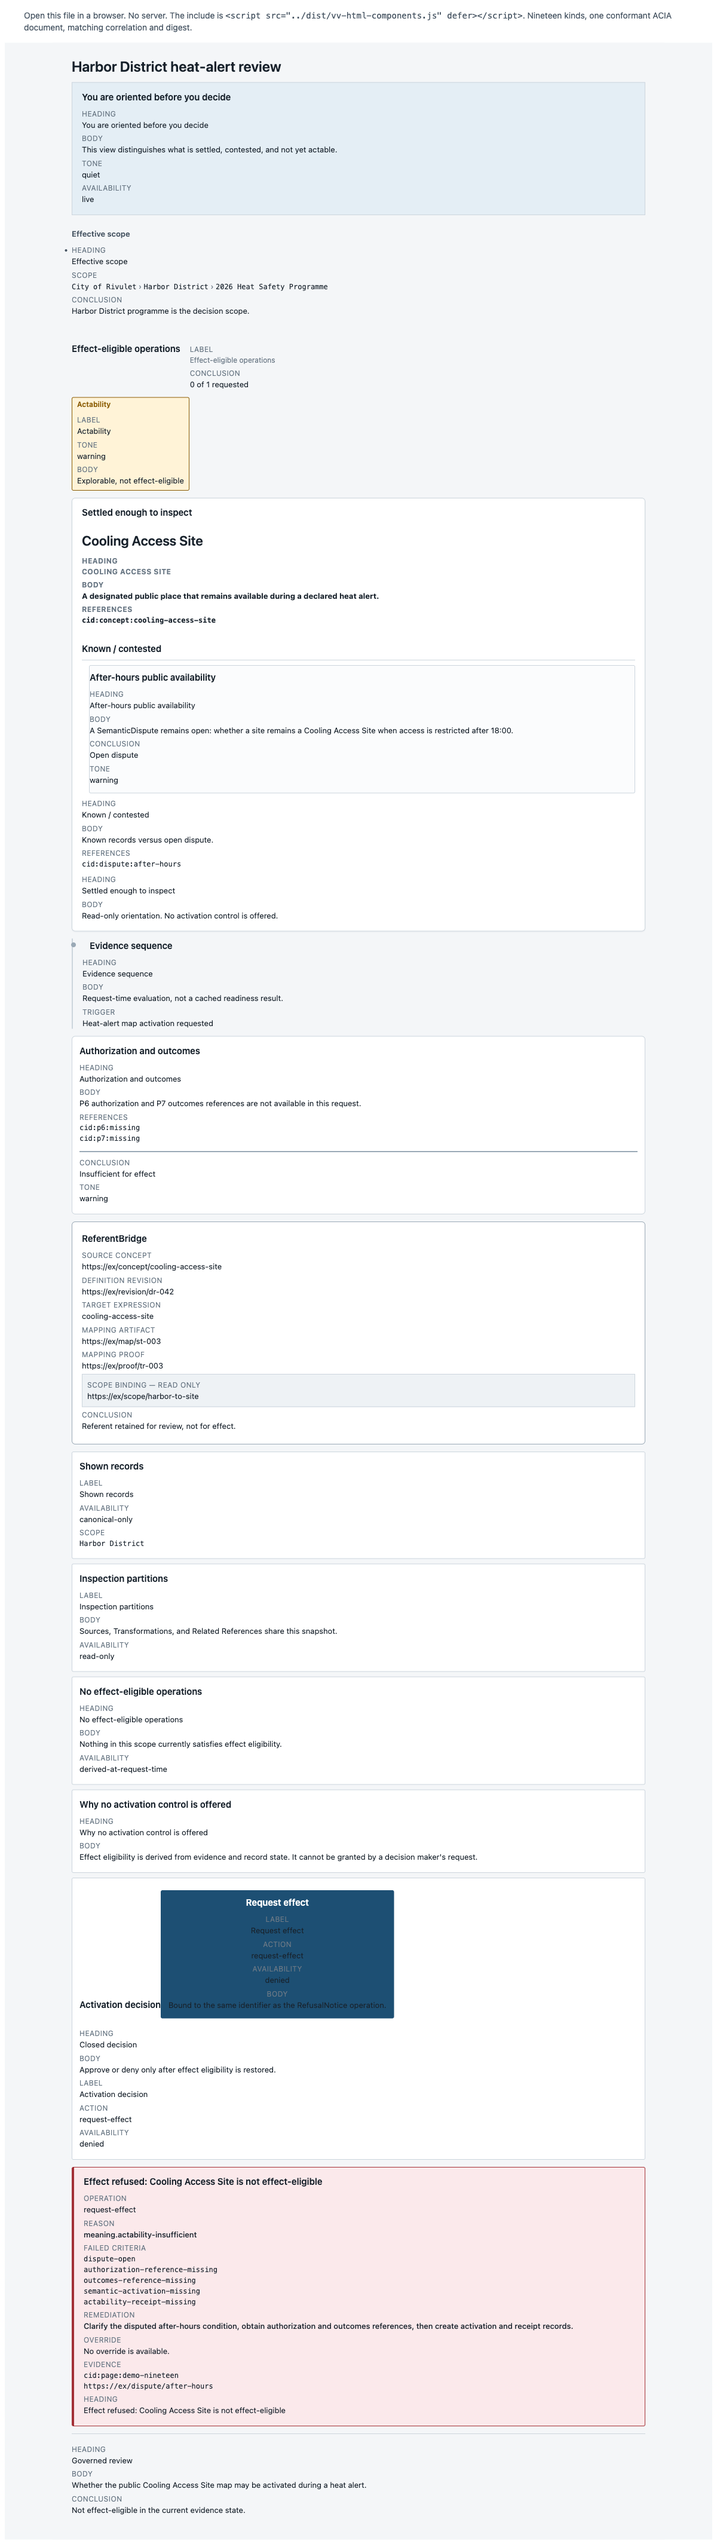
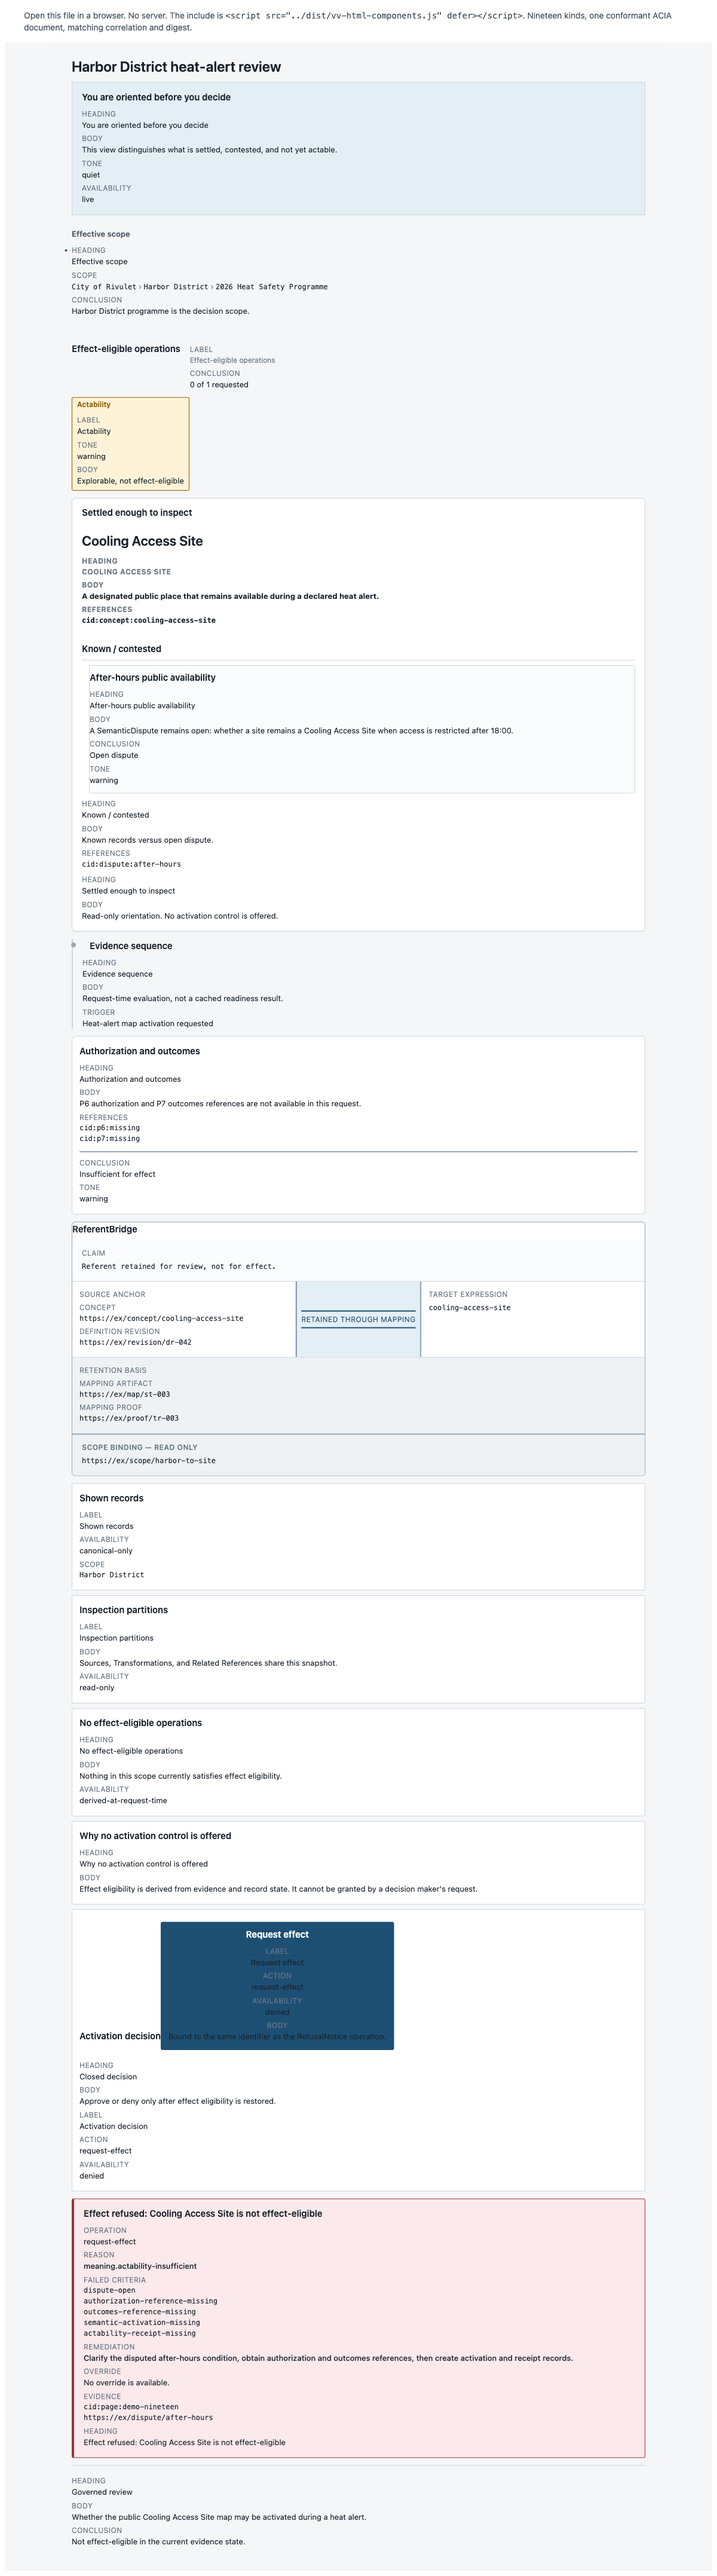
vv-html-components Q3: ReferentBridge connector, in light DOM
Work by grok (Dev). Closes the one V5 gap where the visual WEAKENED THE
SEMANTICS: a link list and a joint retention claim rendered identically, so the
component failed to assert the thing the kind exists to assert.

Six regions via CSS grid -- claim, source anchor, connector, target expression,
retention basis, and a full-width read-only scope binding. No SVG, no diagram
library, no external dependency: zero createElementNS or <svg> in the built
asset.

The load-bearing detail is that the connector is CONDITIONAL. "Retained through
mapping" is drawn only when the claim is complete; an incomplete one gets
"retention claim incomplete" and NO connector, so the page never implies a
retention it cannot support. v4.mjs asserts both directions -- the qualifier
present and the connector absent on the incomplete case, and the converse on the
complete one. That is the property, enforced rather than described.

IRIs render as selectable monospaced text rather than anchors, which is right:
they are identifiers to inspect and copy, not navigation.

Demo screenshot refreshed. Verified: v1-v5 suites and rspec green; demo gate ok
with 19/19 hydrated; the demo's ReferentBridge carries all six required fields
and renders the connector.

Note on my own verification: my first check searched innerText for a lowercase
connector string and found nothing, because CSS uppercases it. The component was
correct and the check was wrong.

Changed region(s): [[0.0925, 0.0312, 0.6475, 0.9685], [0.4008, 0.4686, 0.6167, 0.5311]]

diff --git a/dist/vv-html-components.js b/dist/vv-html-components.js
@@ -86,9 +86,23 @@
     ".vv-scopetrail{font-size:var(--vv-text-sm);padding:var(--vv-space-2) 0;color:var(--vv-ink-soft)}" +
     ".vv-scopetrail .vv-list .vv-li{display:inline;font-family:var(--vv-font-mono)}" +
     ".vv-scopetrail .vv-list .vv-li:not(:last-child):after{content:\" › \";color:var(--vv-ink-faint);font-family:var(--vv-font-sans)}" +
-    ".vv-referentbridge{border:var(--vv-border) solid var(--vv-line-strong);border-radius:var(--vv-radius-md);padding:var(--vv-space-4);background:var(--vv-surface);margin:var(--vv-space-3) 0}" +
-    ".vv-referentbridge .vv-readonly{background:var(--vv-surface-muted);padding:var(--vv-space-2);border:var(--vv-border) solid var(--vv-line)}" +
-    ".vv-referentbridge .vv-incomplete{color:var(--vv-ink-soft);font-style:italic}";
+    ".vv-referentbridge{border:var(--vv-border) solid var(--vv-line-strong);border-radius:var(--vv-radius-md);padding:0;background:var(--vv-surface);margin:var(--vv-space-3) 0;overflow:hidden}" +
+    ".vv-rb-card{display:flex;flex-direction:column}" +
+    ".vv-rb-claim{padding:var(--vv-space-3) var(--vv-space-4);border-bottom:var(--vv-border) solid var(--vv-line);background:var(--vv-surface-raised)}" +
+    ".vv-rb-join{display:grid;grid-template-columns:1fr auto 1fr;gap:0;align-items:stretch;border-bottom:var(--vv-border) solid var(--vv-line)}" +
+    ".vv-rb-source,.vv-rb-target,.vv-rb-basis{padding:var(--vv-space-3);min-width:0}" +
+    ".vv-rb-source{border-right:var(--vv-border) solid var(--vv-line)}" +
+    ".vv-rb-target{grid-column:3;grid-row:1;border-left:var(--vv-border) solid var(--vv-line)}" +
+    ".vv-rb-basis{grid-column:1 / -1;grid-row:2;border-top:var(--vv-border) solid var(--vv-line);background:var(--vv-surface-muted)}" +
+    ".vv-rb-connector{grid-column:2;grid-row:1;display:flex;flex-direction:column;align-items:center;justify-content:center;padding:var(--vv-space-2);background:var(--vv-accent-soft);color:var(--vv-accent);font-size:var(--vv-text-xs);letter-spacing:.04em;text-transform:uppercase;text-align:center;min-width:5.5rem;border-left:var(--vv-border) solid var(--vv-accent);border-right:var(--vv-border) solid var(--vv-accent)}" +
+    ".vv-rb-connector:before,.vv-rb-connector:after{content:\"\";display:block;width:100%;height:0;border-top:2px solid var(--vv-accent);margin:var(--vv-space-1) 0}" +
+    ".vv-rb-scope{padding:var(--vv-space-3) var(--vv-space-4);background:var(--vv-surface-muted);border-top:2px solid var(--vv-line-strong)}" +
+    ".vv-rb-scope .vv-k{font-weight:600}" +
+    ".vv-referentbridge .vv-mono{font-family:var(--vv-font-mono);font-size:var(--vv-text-xs);word-break:break-all;user-select:text}" +
+    ".vv-referentbridge .vv-incomplete{padding:var(--vv-space-3) var(--vv-space-4);color:var(--vv-ink-soft);font-style:italic}" +
+    ".vv-referentbridge.vv-rb-incomplete .vv-rb-connector{display:none}" +
+    ".vv-referentbridge.vv-rb-incomplete .vv-rb-join{display:flex;flex-direction:column}" +
+    ".vv-referentbridge.vv-rb-incomplete .vv-rb-target{border-left:none}";
 
   var hydratedPayloads = typeof WeakMap === "function" ? new WeakMap() : null;
   var payloadById = Object.create(null);
@@ -275,6 +289,76 @@
     return "div";
   }
 
+  function rbRegion(className, heading, pairs) {
+    var region = mk("div", className);
+    region.appendChild(mk("span", "vv-k", heading));
+    var p, lab, val, block;
+    for (p = 0; p < pairs.length; p++) {
+      lab = pairs[p][0];
+      val = pairs[p][1];
+      if (!val) continue;
+      block = mk("div", "vv-field");
+      if (lab) block.appendChild(mk("span", "vv-k", lab));
+      block.appendChild(mk("span", "vv-v vv-mono", val));
+      region.appendChild(block);
+    }
+    return region;
+  }
+
+  function paintReferentBridge(el, payload) {
+    var missing = [];
+    var r, key, val;
+    for (r = 0; r < REFERENT_REQUIRED.length; r++) {
+      key = REFERENT_REQUIRED[r];
+      if (!scalar(payload[key])) missing.push(key);
+    }
+    var complete = missing.length === 0;
+    if (el.classList) {
+      el.classList.add(complete ? "vv-rb-complete" : "vv-rb-incomplete");
+    }
+    var card = mk(payloadTag(el), "vv-payload vv-rb-card");
+    if (!complete) {
+      card.appendChild(mk("div", "vv-incomplete", "retention claim incomplete"));
+    }
+    var claimBits = [];
+    val = scalar(payload.conclusion) || scalar(payload.title);
+    if (val) claimBits.push(["", val]);
+    if (claimBits.length) card.appendChild(rbRegion("vv-rb-claim", "Claim", claimBits));
+    var join = mk("div", "vv-rb-join");
+    var srcPairs = [];
+    val = scalar(payload.sourceConcept);
+    if (val) srcPairs.push(["Concept", val]);
+    val = scalar(payload.sourceDefinitionRevision);
+    if (val) srcPairs.push(["Definition revision", val]);
+    if (srcPairs.length) join.appendChild(rbRegion("vv-rb-source", "Source anchor", srcPairs));
+    if (complete) {
+      join.appendChild(mk("div", "vv-rb-connector", "retained through mapping"));
+    }
+    val = scalar(payload.targetExpression);
+    if (val) join.appendChild(rbRegion("vv-rb-target", "Target expression", [["", val]]));
+    var basis = [];
+    val = scalar(payload.mappingArtifact);
+    if (val) basis.push(["Mapping artifact", val]);
+    val = scalar(payload.mappingProof);
+    if (val) basis.push(["Mapping proof", val]);
+    if (basis.length) join.appendChild(rbRegion("vv-rb-basis", "Retention basis", basis));
+    if (join.childNodes.length) card.appendChild(join);
+    val = scalar(payload.sourceToTargetScope);
+    if (val) {
+      var scope = rbRegion("vv-rb-scope", "Scope binding — read only", [["", val]]);
+      card.appendChild(scope);
+    }
+    val = listVals(payload.references);
+    if (val) {
+      var refs = mk("div", "vv-rb-refs");
+      refs.appendChild(mk("span", "vv-k", "References"));
+      var i;
+      for (i = 0; i < val.length; i++) refs.appendChild(mk("span", "vv-v vv-mono", val[i]));
+      card.appendChild(refs);
+    }
+    if (card.childNodes.length) el.appendChild(card);
+  }
+
   function paintVisual(el, kind) {
     if (!el || el.getAttribute("data-vv-painted") === "true") return;
     if (el.classList) {
@@ -289,17 +373,12 @@
       el.setAttribute("data-vv-painted", "true");
       return;
     }
-    var box = mk(payloadTag(el), "vv-payload");
     if (kind === "ReferentBridge") {
-      var missing = [];
-      var r;
-      for (r = 0; r < REFERENT_REQUIRED.length; r++) {
-        if (!scalar(payload[REFERENT_REQUIRED[r]])) missing.push(REFERENT_REQUIRED[r]);
-      }
-      if (missing.length) {
-        box.appendChild(mk("div", "vv-field vv-incomplete", "retention claim incomplete"));
-      }
+      paintReferentBridge(el, payload);
+      el.setAttribute("data-vv-painted", "true");
+      return;
     }
+    var box = mk(payloadTag(el), "vv-payload");
     var any = false;
     var i, key, raw, txt, items, row, list, j;
     for (i = 0; i < keys.length; i++) {
@@ -323,16 +402,12 @@
           txt = "No override is available.";
         }
         row = mk("div", "vv-field vv-field-" + key);
-        if (kind === "ReferentBridge" && key === "sourceToTargetScope") {
-          row.className += " vv-readonly";
-        }
         row.appendChild(mk("span", "vv-k", FIELD_LABELS[key] || key));
         row.appendChild(mk("span", "vv-v", txt));
         box.appendChild(row);
         any = true;
       }
     }
-    if (kind === "ReferentBridge" && box.querySelector(".vv-incomplete")) any = true;
     if (any) el.appendChild(box);
     el.setAttribute("data-vv-painted", "true");
   }
@@ -523,7 +598,7 @@
   try {
     if (typeof window !== "undefined") {
       window.VvHtmlComponents = {
-        version: "0.4.0",
+        version: "0.5.0",
         kinds: KINDS.slice(),
         scan: scanDocument,
         payloadFor: function (elOrId) {

diff --git a/spec/v1_spec.rb b/spec/v1_spec.rb
@@ -7,7 +7,7 @@ RSpec.describe "vv-html-components V1" do
   let(:js) { File.read(Vv::Html::Components::AssetPath.js) }
 
   it "exposes VERSION and a real static asset" do
-    expect(Vv::Html::Components::VERSION).to eq("0.4.0")
+    expect(Vv::Html::Components::VERSION).to eq("0.5.0")
     expect(File).to be_file(Vv::Html::Components::AssetPath.js)
     expect(Vv::Html::Components::AssetPath.include_tag).to include(
       'src="/assets/vv-html-components/vv-html-components.js"'

diff --git a/lib/vv/html/components/version.rb b/lib/vv/html/components/version.rb
@@ -3,7 +3,7 @@
 module Vv
   module Html
     module Components
-      VERSION = "0.4.0"
+      VERSION = "0.5.0"
     end
   end
 end

diff --git a/README.md b/README.md
@@ -48,9 +48,9 @@ UI. That is honest, not unfinished-by-accident:
 - Every kind is a labeled field list. PageShell is a padded canvas, not a dossier.
 - TabSet and FilterBar are static indexes (all children stay visible).
 - Timeline is a CSS rail, not a dated chronology (dates are not invented).
-- ReferentBridge is stacked fields plus a locked scope bar — **not** the
-  five-region connector card in DESIGN.md §10.19. A link list and a joint
-  retention claim still look too similar. That is Q3.
+- ReferentBridge is a five-region claim card (claim, source, connector, target,
+  retention basis, locked scope). Incomplete cards omit the connector and
+  show “retention claim incomplete”.
 - DecisionForm is read-only context, not an operable form.
 - `ul > article` (DataList) is left nested as the renderer emitted it.
 

diff --git a/CHANGELOG.md b/CHANGELOG.md
@@ -1,5 +1,12 @@
 # Changelog
 
+## 0.5.0 — Q3 ReferentBridge
+
+- Five-region light-DOM claim card: Claim, Source anchor, connector
+  (“retained through mapping”), Target expression, Retention basis, locked scope
+- Incomplete cards omit the connector and do not imply retention
+- IRIs are selectable monospaced text, not links
+
 ## 0.4.0 — V4
 
 - Visuals for EvidencePanel, DecisionForm, ActionControl, Disclosure, FilterBar,
